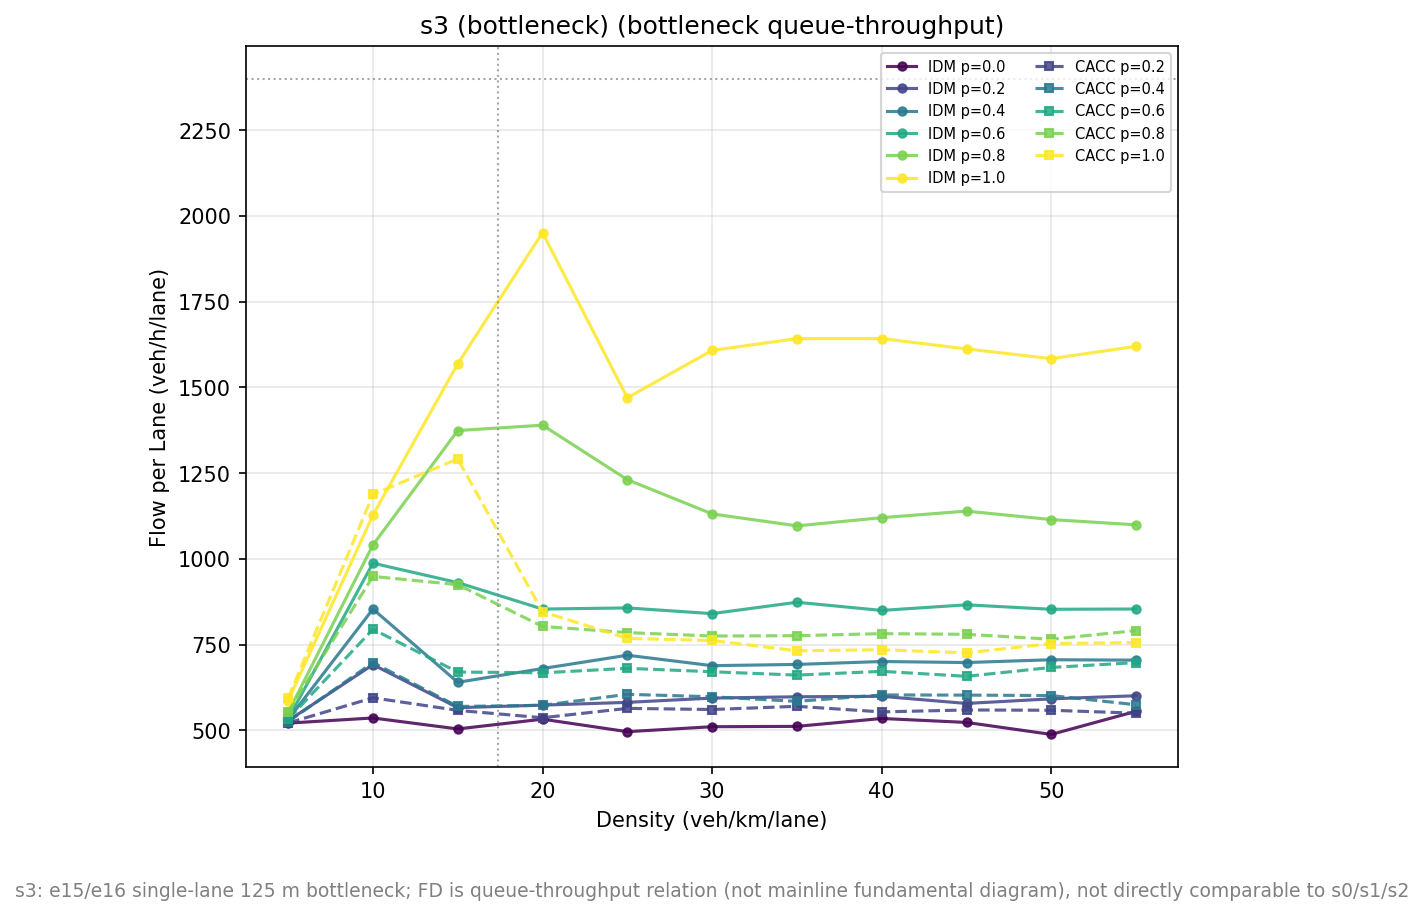
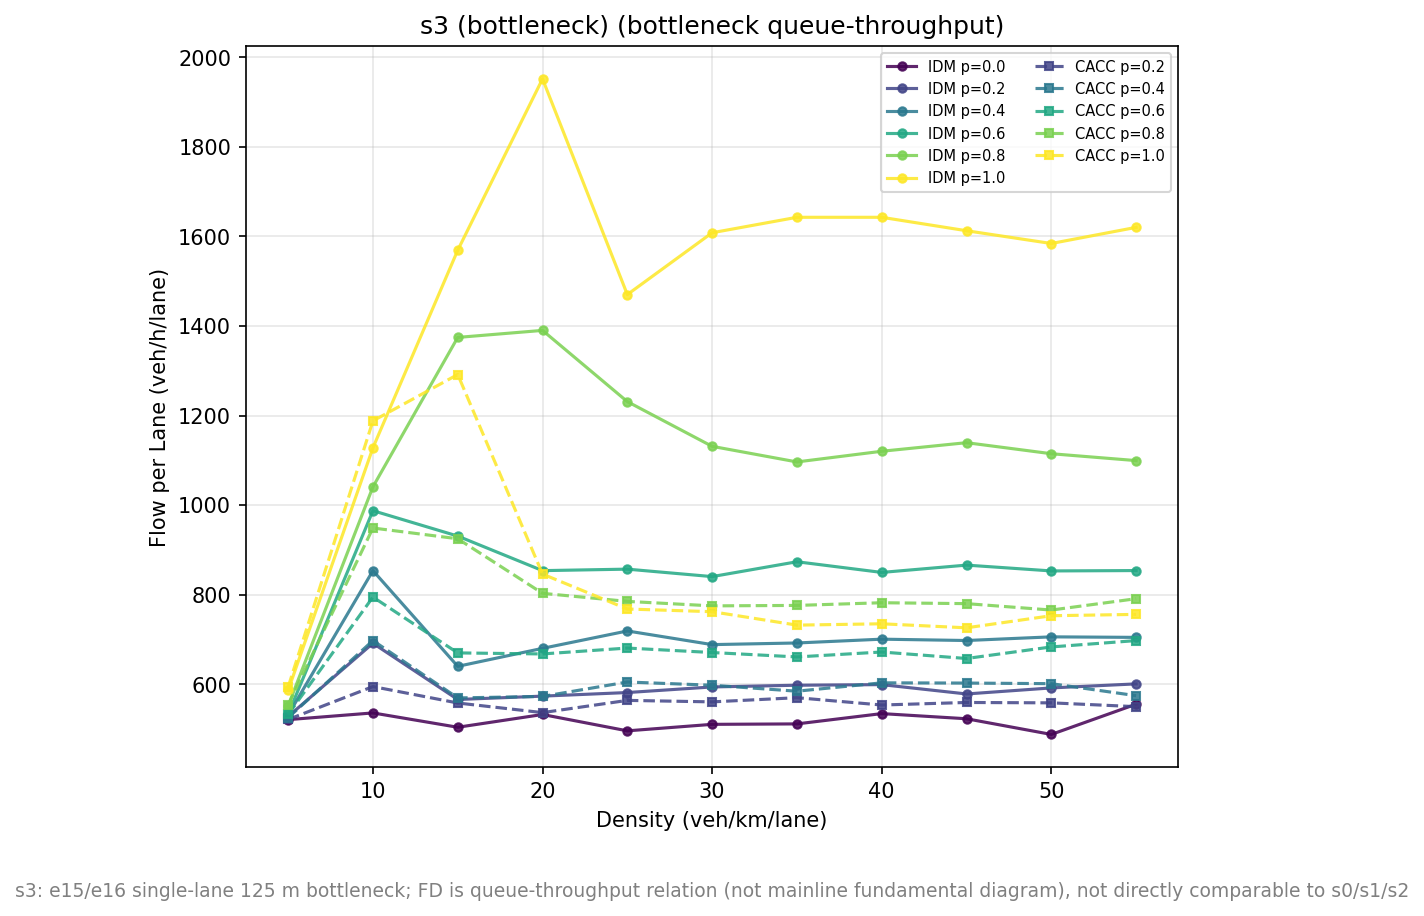
docs: 第七轮复核修订——s3 瓶颈吞吐口径统一 + 修复后图产物重新入库
P1-1（s3 HV 瓶颈吞吐口径）：
- 原句 "HV 吞吐 ~500 veh/h/道量级" 实为主线单车道流量（per-lane 488-556），
  与同句 IDM/CACC 总量口径（3,903/2,583）混用、2× 低估瓶颈吞吐。
- s3 为闭环无出入流，横断面流量守恒：瓶颈单车道吞吐 = 环总量。实测 HV
  flow_mean（总量）976-1,111 veh/h（per-lane ~520）。
- report.cn/report.en §4.1 与 EXPERIMENT_DESIGN §三.5 统一口径：HV
  ~1,000-1,150 veh/h 量级（per-lane ~520）、IDM 全 CAV ~3,200-3,900
  （per-lane ~1,950）、CACC ~1,500-2,600（per-lane ~1,290）。

P2-1（图产物重新入库）：
- 入库 graph/v0.4.2/ 2 图由修复前代码生成：chart_delay 标题含
  "(vehN=None)"（第四轮 P2-1）、chart_fundamental_diagram_s3 含 HV 主线
  理论参考线（第四轮 P2-2）。
- 用当前 HEAD 代码从 shipped CSV 重生成 5 图：3 图字节一致，2 图更新后
  重新入库（chart_delay → "(vehN=density-aligned)"、s3 → 无参考线）。

门禁：447 passed；ruff/format 通过；数字与 shipped aggregated 对照吻合。

diff --git a/EXPERIMENT_DESIGN.md b/EXPERIMENT_DESIGN.md
@@ -60,11 +60,13 @@
 ### s3 瓶颈语义（单独口径）
 
 s3 瓶颈段（e15/e16，125 m 单车道）阻塞容量仅 ~17 辆。**设计预期修订（2026-08
-管线审查实测；第六轮终审更正模型归属）**：原预期通行能力 2,400 veh/h（τ 限制）
-被实测推翻——瓶颈吞吐由 **2→1 合流冲突主导**而非 τ：HV ~500 veh/h；**IDM 全 CAV
-瓶颈吞吐 ~3,200–3,900 veh/h**（峰值 3,903 @k20，k30–55 3,168–3,285，高于 τ 上限
-的 2,400）；**CACC 全 CAV 降至 ~1,500–2,600**（峰值 2,583 @k15，k30–55 仅
-~1,450–1,520）——CACC 小间距优势在瓶颈排队中被合流冲突抵消。
+管线审查实测；第六/七轮终审更正）**：原预期通行能力 2,400 veh/h（τ 限制）
+被实测推翻——瓶颈吞吐由 **2→1 合流冲突主导**而非 τ。s3 为闭环无出入流，各
+横断面流量守恒（**瓶颈单车道吞吐 = 环总量**）：HV 吞吐 **~1,000–1,150 veh/h
+量级**（实测 976–1,111；per-lane ~520）；**IDM 全 CAV ~3,200–3,900 veh/h**
+（峰值 3,903 @k20，k30–55 3,168–3,285，per-lane ~1,950，高于 τ 上限的
+2,400）；**CACC 全 CAV ~1,500–2,600**（峰值 2,583 @k15，k30–55 仅
+~1,450–1,520，per-lane ~1,290）——CACC 小间距优势在瓶颈排队中被合流冲突抵消。
 s3 在 U55 轴（主线 220 辆）瓶颈深度过饱和——s3 的"基本图"是
 **瓶颈排队–吞吐关系**而非主线基本图。决策：**s3 与 s0/s1/s2 同密度轴**
 （保持跨场景密度对齐的原有设计意图），报告时 s3 单独成图并标注瓶颈语义。

diff --git a/docs/report.en.md b/docs/report.en.md
@@ -99,10 +99,13 @@ Per-lane grid-observed peaks (veh/h/lane):
 ![FD s3 bottleneck](../graph/v0.4.2/chart_fundamental_diagram_s3.png)
 
 - **s3 bottleneck semantics**: the FD is a bottleneck queue–throughput relation (not a
-  mainline FD); HV throughput ≈500 veh/h/lane class; **IDM full-CAV bottleneck
-  throughput ≈3,200–3,900** (peak 3,903 @k20, k30–55 3,168–3,285), **above the
-  τ-limited 2,400**; CACC full-CAV drops to **≈1,500–2,600** (peak 2,583 @k15,
-  k30–55 only ≈1,450–1,520) — the **2→1 merge conflict** dominates.
+  mainline FD). s3 is a closed loop with no inflow/outflow, so flow is conserved
+  across cross-sections — the single-lane bottleneck throughput equals the ring
+  total. HV throughput is **≈1,000–1,150 veh/h** (measured 976–1,111; per-lane
+  ≈520); **IDM full-CAV ≈3,200–3,900** (peak 3,903 @k20, k30–55 3,168–3,285,
+  per-lane ≈1,950), **above the τ-limited 2,400**; CACC full-CAV drops to
+  **≈1,500–2,600** (peak 2,583 @k15, k30–55 only ≈1,450–1,520, per-lane ≈1,290) —
+  the **2→1 merge conflict** dominates.
 
 ![Capacity](../graph/v0.4.2/chart_capacity.png)
 
